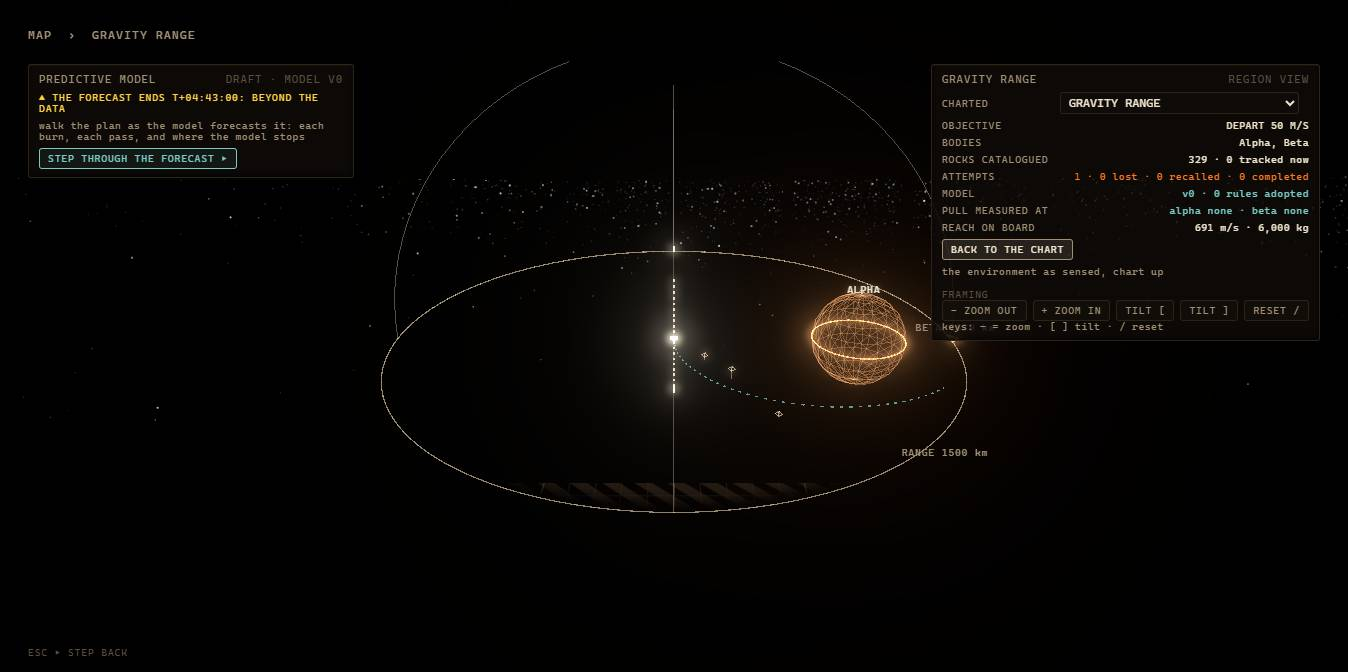
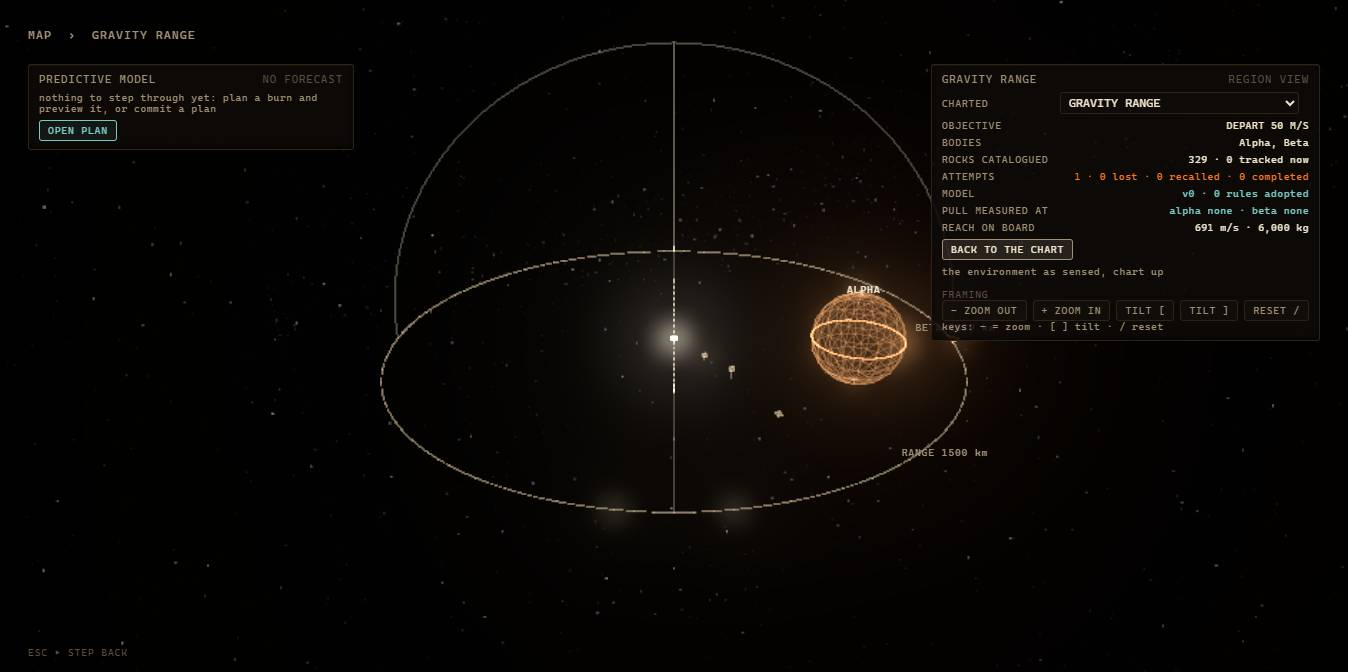
3F: final handoff, the after-shots, and S15's views before and after
docs/handoffs/3F.md is the final handoff for the console rebuild: what
was delivered, how to verify it, every screen before and after
(docs/handoffs/3f/after/, from a cold judge's run on the production
build), the speed table, the claims, and the requests to other lanes.

diff --git a/docs/handoffs/3F.md b/docs/handoffs/3F.md
@@ -23,7 +23,7 @@ The console is rebuilt as the loop, on layout A: six stages across the top, each
 
 **Stepping through the prediction in the MAP** (the owner's idea) and **the planet larger** (his note)
 - `Rehearsal.tsx`, `FlightHolo.ts`, `MapPlate.tsx`, `RoomView.setRegionRange`: MAP › ENTER REGION › STEP THROUGH THE FORECAST walks a plan's forecast step by step in the region's hologram, with the envelope, the ship where the forecast puts it, each body where it is forecast to be.
-- Following the ship (there and on PLAN) reaches to the nearest body's surface and half a radius into it (`followRange`): the body is large beside the ship, with only its near side in view.
+- Following the ship (`followRange`) brings the body it passes up large. On PLAN's flat chart the view reaches to the body's surface and half a radius into it, so only its near side shows. In the hologram a body is drawn only while its centre is inside the volume, so there the view reaches just far enough for it to be drawn: at a 125 km pass Alpha's radius is half the volume's, where it was a third.
 
 **FLIGHT** (item 4): the reference disc stays level (`levelHeading`); a commanded burn is drawn in full and named, attitude jets draw quietly (`thrust.ts`); a hand turn in progress is stated with rate bars (`flightAction.ts`); the margins are a strip along the bottom and the view tools fold, so the right column fits 1366 × 768.
 
@@ -35,7 +35,7 @@ The console is rebuilt as the loop, on layout A: six stages across the top, each
 - (1) Audio: `<AudioMount room opening />` is in `App.tsx` as merged; the switch is gated on `soundAvailable()`; `.cr` and `.cr-black[data-stage]` are unchanged. Opening the console now focuses the rail's stage (it looked for a tab that no longer exists).
 - (3) 2C: MODEL shows `heldOutTest.diagnosis.why` under the test's steps, for a pass and a failure; a test saved before the model gave reasons keeps the old words.
 - (4) PF's R63, applied as a variant (`src/view3d/room/veil.ts`, `RoomView.ts`): settled in MAP or SHIP, the room's own parts are not drawn behind the veil. **The sky still is**: PF's patch as written also removed the stars that show behind the hologram in both views today. Never while moving between views or through a loss.
-- (5) Noted: TV's scripted-frame method in `RoomView.ts` and AU's line in `opening/sequence.ts` touch nothing changed here.
+- (5) Noted. AU's line in `opening/sequence.ts` touches nothing changed here. TV's scripted-frame method is additive; my change in `RoomView.ts` is the last lines of `frame()` and one line of the constructor, so if TV's method draws the scene itself it should decide whether the room's parts are covered (`coveredByVeil`) or simply draw everything.
 
 **Instruments** (`src/console/instruments/`, theme tokens only, plain numbers in): `TrajectoryChart`, `StepBar`, `UncertaintyPanel`, `DragBar`, `BudgetBoard`, `LoopRail`, `chartMath.ts`. **Readers:** `forecastReading.ts`, `power.ts`, `regionChart.ts`, `stages.ts`.
 
@@ -53,20 +53,23 @@ npm run check
 npm run build
 ```
 
-- `npm run check`: «CHECK».
+- `npm run check`: typecheck, lint, 1,554 tests pass, 1 skipped (not mine), and the speed test, on the final tree (`f751ab8` and this handoff).
 - `npm run build`: green.
-- **A cold judge's run on the production build** (`6a7d087`) with NIGHT's driver: a fresh browser profile, real keys and clicks, a 1366 × 768 window (1348 × 672 inside). No page error or failed request at any step.
+- **A cold judge's run on the production build** at `5de7239` with NIGHT's driver (the two commits after it, `ca5953c` and `f751ab8`, change only when shapes are recomputed and when a folded list is drawn; they were not re-judged): a fresh browser profile, real keys and clicks, a 1366 × 768 window (1348 × 672 inside). No page error or failed request at any step.
   - The opening plays, then the room; MAP, the region, SHIP, POWER and FLIGHT open; every console page opens at arrival.
-  - Twin Deeps: a 9.85 m/s retrograde dive (forecast on model v0) left its forecast at T+05:31:40, worst 3.2σ; a 5 m/s dive (on v2) held, worst 2.8σ. TEST on MODEL passed, 1.04 against 1.12, with 2C's reason on screen; the held-out misfit is 708 m without the rule and 26 m with it; exponent 2.5000 ±2.4×10⁻⁵. ADOPT gave model v5. The same 16 m/s dive then forecasts to 128.9 km ±12.3 km from Alpha at T+05:53, 12% of it beyond the data.
-«JUDGE-REST»
+  - Twin Deeps: a 9.85 m/s retrograde dive (forecast on model v0) left its forecast at T+05:31:40, worst 3.2σ; a 5 m/s dive (on v2) held, worst 2.8σ. TEST on MODEL passed, 1.04 against 1.12, with 2C's reason on screen; the held-out misfit is 1,138 m without the rule and 26 m with it; exponent 2.5000 ±2.1×10⁻⁵. ADOPT gave model v4. The same 16 m/s dive then forecasts to 129.0 km ±12.3 km from Alpha at T+05:53, 12% of it beyond the data (on model v0 it ended at T+04:43, 370 km ±45 km out, all of it beyond the data). The MAP's step-through and a unit's detail on SYSTEMS opened.
+  - The Well Garden, from the picker: coasting is lost at T+00:29:25 on the entrance throat, as designed; the debrief names the collision and the clearance broken. Then PLAN › + BURN › STEER: the page chose CROSS-TRANSFER by itself; 12.5 m/s at 600 s, COMMIT, ENTER: **the attempt completed at T+04:27:48** (2F's body-axis plan completed at T+4:27:46).
+  - The Unseen Cathedral, from the picker: lost at T+00:04:09 (power), at 1× throughout; the loss review lists what failed first (the camera at T+00:04:05, then comms, both star trackers, the forward RCS, and 16 more). Its radiation block says "No radiation monitor reading in the record" (request 5).
+  - 15 of 15 checks for page errors and failed requests were clean; no step of the run failed to find its control.
+  - Two earlier runs of the same script were stopped part way, each to fix something it showed (a readout cut short on PLAN; the hologram's follow range, above), and a rehearsal on the build before the merge went end to end. The run reported here is the last, whole, on the final code.
 - No page scrolls sideways, and no console page scrolls as a whole, at that size: each run step checked it.
 - By hand: `npm run dev`; `3` for the console. Twin Deeps: PLAN › + BURN › RETROGRADE, 16 m/s; watch the forecast follow; FOLLOW THE SHIP; COMMIT; ENTER; warp; BLACK BOX. Well Garden (EXPLORATION › WELL GARDEN): PLAN › + BURN › STEER (it picks CROSS-TRANSFER), 12.5 m/s; COMMIT; ENTER; warp.
 
 **Tests changed, and why** (none loosened)
 - `pages.test.tsx`, "what the next test fits and checks": the words moved from one line into the test's three steps; the test now asserts both steps exactly, including that the held-out attempt is not among those fitted on.
-- `Rehearsal.test.tsx`, the follow range: the rule changed at the owner's request (the body larger). The test states the new rule and adds two bounds: the body's surface is in view, its centre is not.
+- `Rehearsal.test.tsx`, the follow range: the rule changed at the owner's request (the body larger). The test states the new rules (the chart's and the hologram's) and adds bounds for each: on the chart the body's surface is in view and its centre is not; in the hologram the body passes the hologram's own rule for being drawn.
 - `chartMath` `envelopeRuns` (checkpoint 1): a lone last sample has no area to draw; the test expected a run for it, which was the test's mistake.
-- Everything else is added: `src/console`, `src/app`, `src/view3d` and `src/theme` have 443 tests where `main` without 3F has 280.
+- Everything else is added: `src/console`, `src/app`, `src/view3d` and `src/theme` have 445 tests where `main` without 3F has 280.
 
 ## Before and after
 
@@ -93,7 +96,33 @@ The three layouts the owner chose between: `docs/handoffs/3f/layouts/`.
 
 ## Speed: S15's views, before and after
 
-«S15»
+S15's runner (PF's version on `main`, with the two lines of request 2 for this branch), modest profile (4× CPU throttle, the network proxy), 1366 × 768, 8 s a view. Before is `main` at `7ceb825`, built in a temporary checkout; after is this branch. Back to back in one session.
+
+**Not a quiet machine.** Other threads' servers, a multi-hour test run and other headless browsers were running; each trial's host load is in the last column, and it was higher during the baseline. So a few milliseconds either way is noise. The draw counts are exact.
+
+Frame time at 1×, ms: the 95th percentile (the mean of the repeats, each repeat in brackets), the median, the worst frame, draws a frame, host CPU busy %.
+
+| View | p95 before | p95 after | median | worst | draws | host busy % |
+|---|---|---|---|---|---|---|
+| Room | 115 (115, 115) | 103 (109, 97) | 82 → 67 | 140 → 121 | 240 → 240 | 35 → 25 |
+| EXPLORATION | 24 (24, 24) | 17 (24, 18, 18, 12, 12) | 6 → 6 | 73 → 85 | | 35 → 23 |
+| SYSTEMS | 39 (36, 42) | 30 (37, 24) | 9 → 6 | 97 → 115 | | 46 → 24 |
+| PLAN | 18 (18, 18) | **24 (30, 24, 18)** | 6 → 6 | 55 → **745** | | 67 → 21 |
+| BLACK BOX | 30 (30, 30) | 18 (24, 12) | 9 → 6 | 73 → 73 | | 63 → 22 |
+| MODEL | 24 (24, 24) | 15 (18, 12) | 6 → 6 | 79 → 61 | | 73 → 25 |
+| FLIGHT | 121 (127, 115) | 91 (79, 103) | 79 → 58 | 158 → 151 | 172 → 172 | 55 → 28 |
+| MAP | 85 (73, 97) | 55 (55, 55) | 55 → 30 | 109 → 91 | 141 → 32 | 38 → 68 |
+| SHIP | 91 (97, 85) | 70 (67, 73) | 61 → 39 | 122 → 133 | 162 → 73 | 35 → 65 |
+
+At 2000× (every frame saturated, as on `main`): Room 197 → 203, EXPLORATION 112 → 109, SYSTEMS 139 → 130, PLAN 121 → 118, BLACK BOX 124 → 121, MODEL 109 → 100, FLIGHT 209 → 191, MAP 173 → 149, SHIP 182 → 155. Room ready on the modest profile, three loads each: cold 8.3, 6.8, 6.7 s → 7.8, 5.6, 5.4 s; warm 6.0, 6.4, 5.7 s → 5.1, 5.5, 4.4 s (loads are PF's; both far over the 2.5 s gate on this loaded machine).
+
+What it says:
+- **The first pass found a regression, and it is fixed.** As first built, PLAN's p95 was 70 ms and SYSTEMS's 88 ms (medians unchanged): the console redraws five times a second, and each redraw rebuilt the forecast's path, its envelope, the uncertainty plot's layers and 34 folded unit rows. Those are now worked out only when they change (`ca5953c`, `f751ab8`), and the console pages were timed again.
+- **PLAN is the one cell not at or under `main`:** 24 ms against 18 ms at p95 (18 to 30 over three repeats), inside the 33 ms gate, median unchanged. It now draws a live chart where `main`'s page was text. It also has one long frame, 0.4 to 0.7 s on this profile, when a new forecast arrives and is first drawn; with the forecast following the plan that happens once per settled edit. Reading the forecast in the worker, or thinning its 800 samples for drawing, would remove it; not done.
+- MAP and SHIP are faster because of R63 (141 → 32 and 162 → 73 draws). Room and FLIGHT have the same draws before and after: their better times are the lighter host load, not this work.
+- The release gate (A18 (7)) still fails in the Room, FLIGHT, MAP and SHIP on this machine, as PF reports (R49).
+
+The raw run files are not committed: S15's evidence files have carried local paths before. The two-line runner patch is `docs/handoffs/3f/s15-runner.patch`.
 
 ## Claims, labelled
 
@@ -104,8 +133,9 @@ The three layouts the owner chose between: `docs/handoffs/3f/layouts/`.
 - `[DEMONSTRATED: objective.test.tsx]` How near a forecast comes to a place to reach is measured to the region's edge, in space; a departure is read where the forecast ends in the same frame as the standing now (`departProgress`), and agrees with it for a forecast that ends where the ship is.
 - `[DEMONSTRATED: loopPages.test.tsx, regionChart.test.ts]` A flight is charted from its record alone (each bearing with a range from the same sensor at the same moment), and a forecast is seen from the same body before the two are drawn together.
 - `[DEMONSTRATED: dev build, draw calls counted over one whole frame]` Behind the veil: MAP 147 → 32 draws a frame, the region view 153 → 38, SHIP 164 → 73; the room, the console and FLIGHT unchanged at 248. PF's patch as written gives 28, 34 and 69, and removes the stars.
+- `[DEMONSTRATED: S15's runner, modest profile, a loaded machine]` After the speed fix no console page but PLAN is slower than on `main` at p95, at 1× or 2000×; PLAN is 24 ms against 18 ms at 1×, inside the gate. See the table.
 - `[DEMONSTRATED: veil.test.ts]` The room's parts are left undrawn only in MAP or SHIP, settled, with the veil above 0.999.
-- `[DEMONSTRATED: Rehearsal.test.tsx]` Following the ship past a body 125 km off with a 250 km radius frames 287.5 km: its surface is in view; its centre and far side are not.
+- `[DEMONSTRATED: Rehearsal.test.tsx]` Following the ship past a body 125 km off with a 250 km radius: the chart frames 287.5 km (its surface in view, its centre not); the hologram frames 485.6 km, which passes the hologram's own rule for drawing a body with little to spare. The first version of this used the chart's range in the hologram and left the body a mark on the rim; the judge's run caught it.
 - `[DEMONSTRATED: flight.test.ts]` A ship pitched 13° and rolled 25° leaves the display's up exactly up; a draft stepped through in the region view never changes `alerts()`.
 - `[DEMONSTRATED: power.test.ts, one-off run on the recorded ship]` `powerBudget` gives 2,865 W as set at arrival, and in flight matches what the ship reports drawing, load for load; the reactants last 41.3 h at that load.
 - `[ASSUMED]` Display values: a draft rests 0.6 s before it is forecast again; a target within about 1° of the line of motion has no side to steer to; following the ship reaches half a radius into the nearest body with a 15% margin; a gap in a measured track is a spacing over three times the usual one; the veil counts as opaque above 0.999; the rate bars fill at 2°/s.
@@ -118,6 +148,7 @@ The three layouts the owner chose between: `docs/handoffs/3f/layouts/`.
 - The Well Garden's forecast runs one hour and knows nothing of the wells, so "comes within" moves by tens of kilometres between directions: it ranks them, it does not promise arrival. The chart's pointer is what shows the way.
 - The forecast carries no uncertainty for velocity, so PLAN shows a departure's speed where the forecast ends without one; its distance out has one.
 - The release gate (R49, A18 (7)) is PF's and still fails in the 3D views; nothing here claims otherwise. The table above says only whether 3F's work made any view slower.
+- **Seen in the judge's run and not investigated (2C's or 2F's to look at):** in the Well Garden after a loss (attempt 2, model v1), PLAN's chart puts the two exits in different places relative to the ship than EXPLORATION did at attempt 1's arrival (`after-garden-plan-steer-region.jpg` against `after-garden-exploration.jpg`), and the forecast is nearest FORWARD TRANSIT at its first sample, where at attempt 1 it was nearest at its last. The exits are fixed regions, and the charts draw the forecast and the believed world as given, so attempt 2's forecast or believed ship is somewhere other than attempt 1's. The STEER attempt still completed.
 - Found in a recording and not investigated (2C's): an attempt-3 forecast issued on model v3 after an empty attempt 2 was off by more than 3σ from T+00:00:40.
 
 ## Requests outside my ownership
